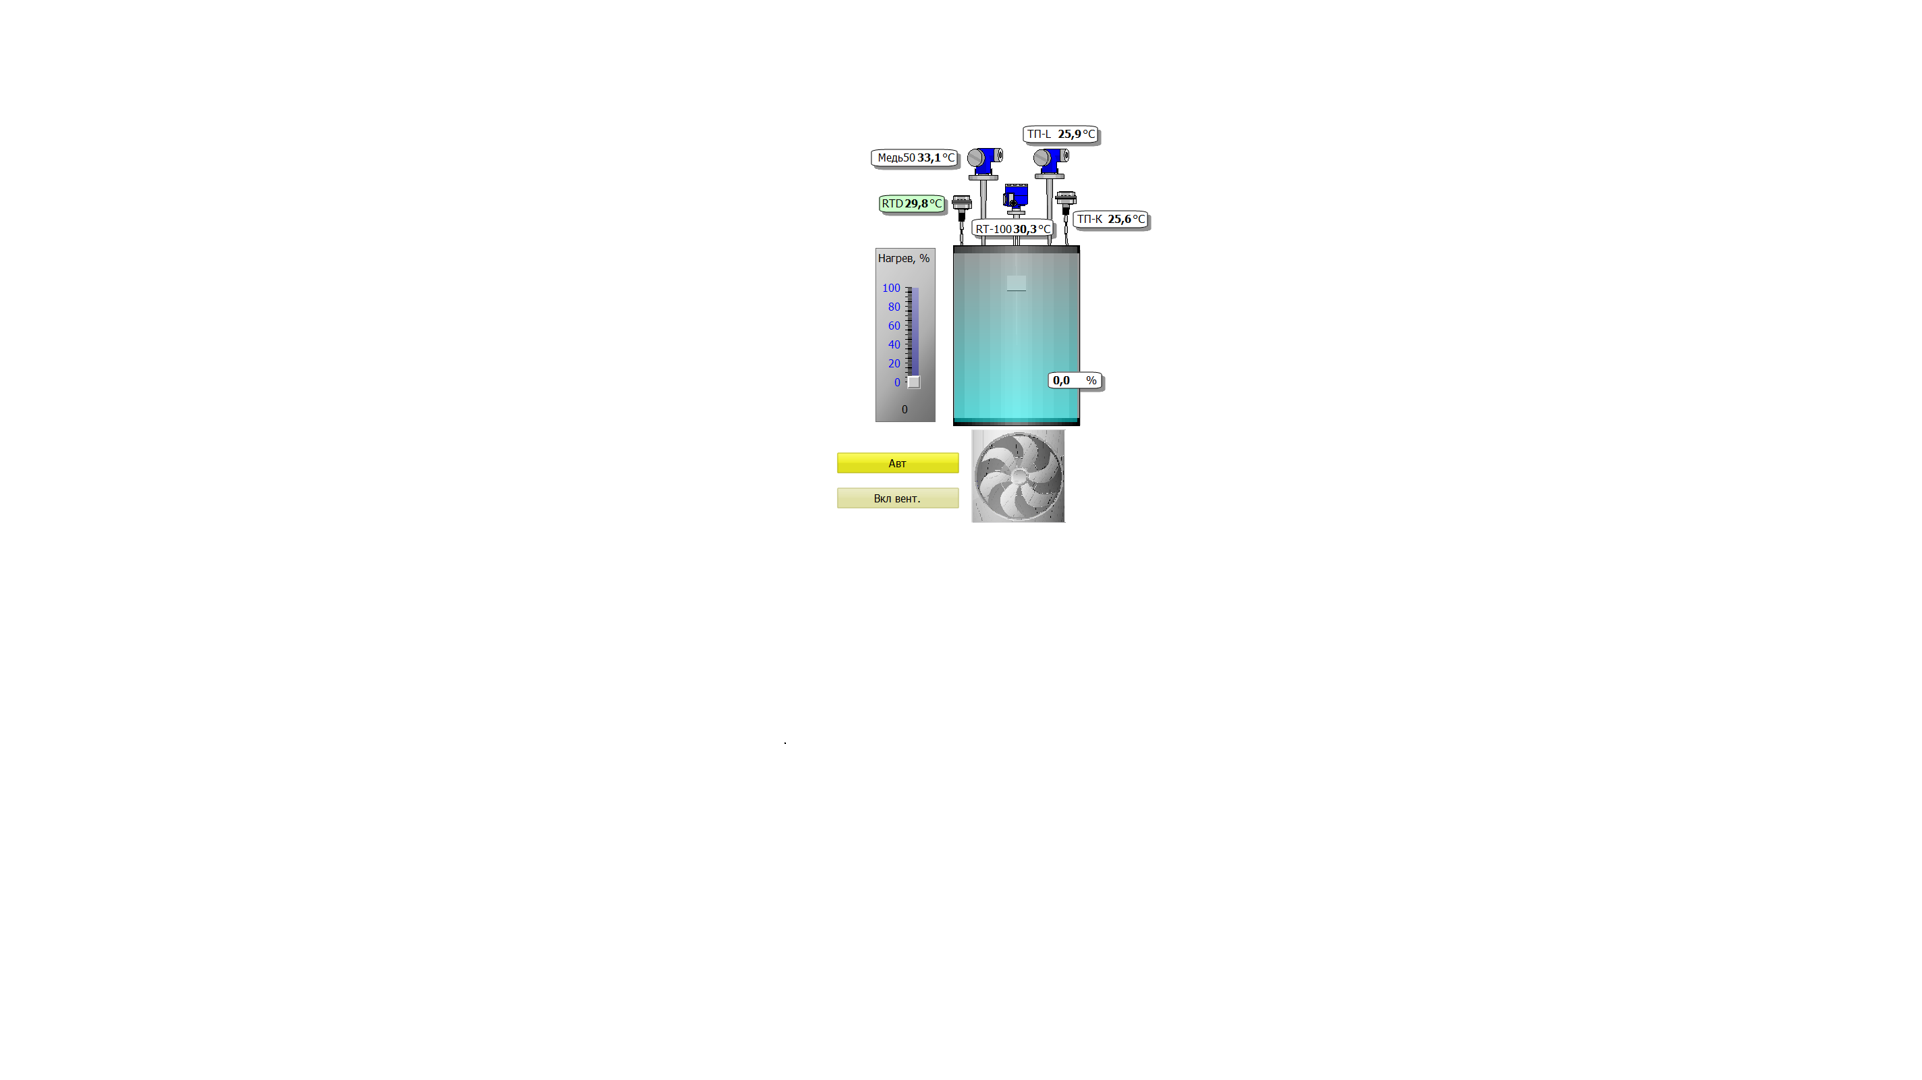
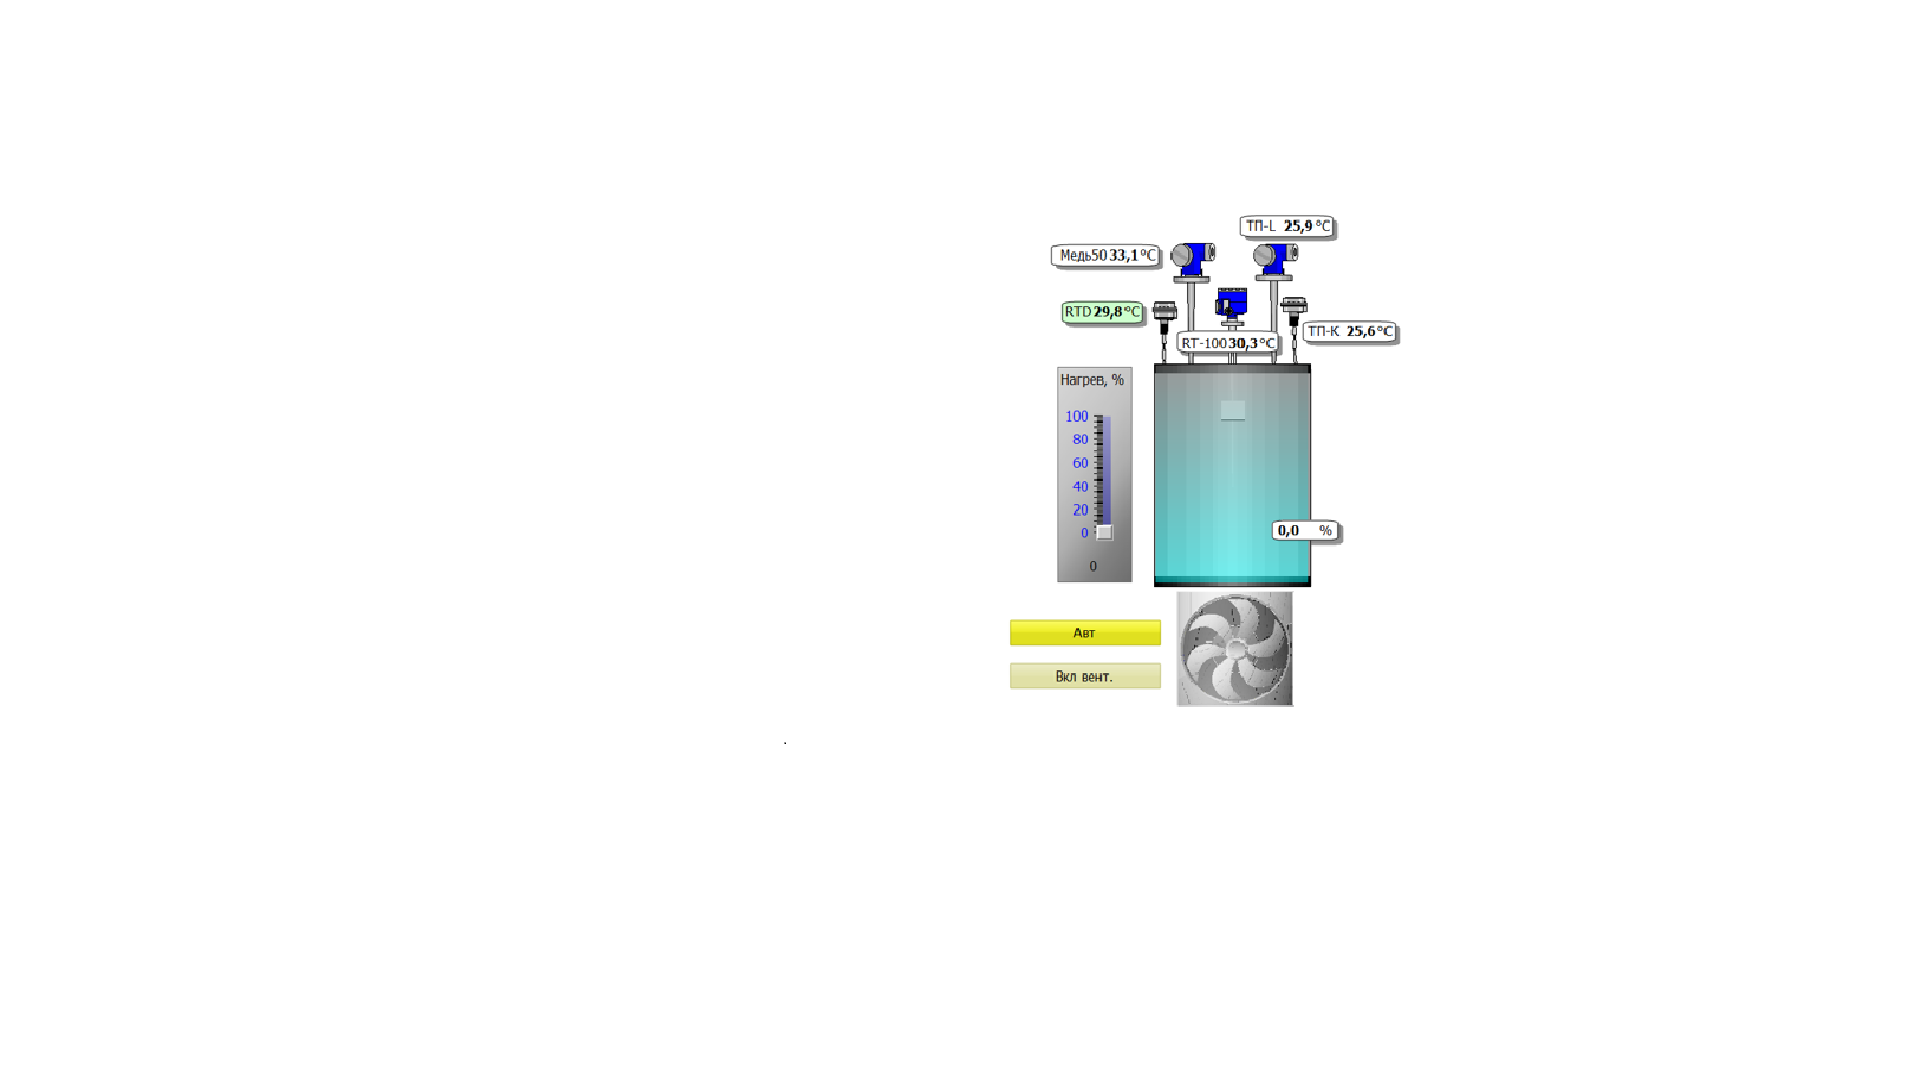
Объявление ползунка, добавление кнопок и описаний

Changed region(s): [[0.437, 0.0917, 0.7492, 0.6722]]

diff --git a/Scada.py b/Scada.py
@@ -1,16 +1,28 @@
 from tkinter import*
 from PIL import*
-
+class Cnopka(Button):
+    def __init__(self, master, text, width, height, bg = 'grey', **kw):
+        super().__init__(master = master, text = text, width = width, height = height, bg = bg, **kw)
+# главное окно
 main = Tk()
 main.state('zoomed')
 main.title("SCADA система температурных датчиков")
 window_width = 800
 window_height = 600
 main.geometry('%dx%d' % (window_width, window_height))
-
+# контейнер с мнемосхемой
 photo = PhotoImage(file='1.png')
 frame = Frame(main, width=1920, height=1080, bg='MistyRose1')
 label = Label(frame, image=photo)
 label.place(x=0, y=0)
 frame.pack()
+# кнопки
+btn = Cnopka(frame, 'Авт. вентилирование', 21, 2)
+btn1 = Cnopka(frame, 'Вкл. вентилирование', 21, 2)
+btn.place(x=1011, y=619)
+btn1.place(x=1010, y=662)
+# ползунок
+scale = Scale(frame, bg='grey', activebackground='white', highlightbackground='MistyRose1', from_= 100, to=0, width=50, length=220)
+scale.place(x=1057, y=368)
+
 main.mainloop()
